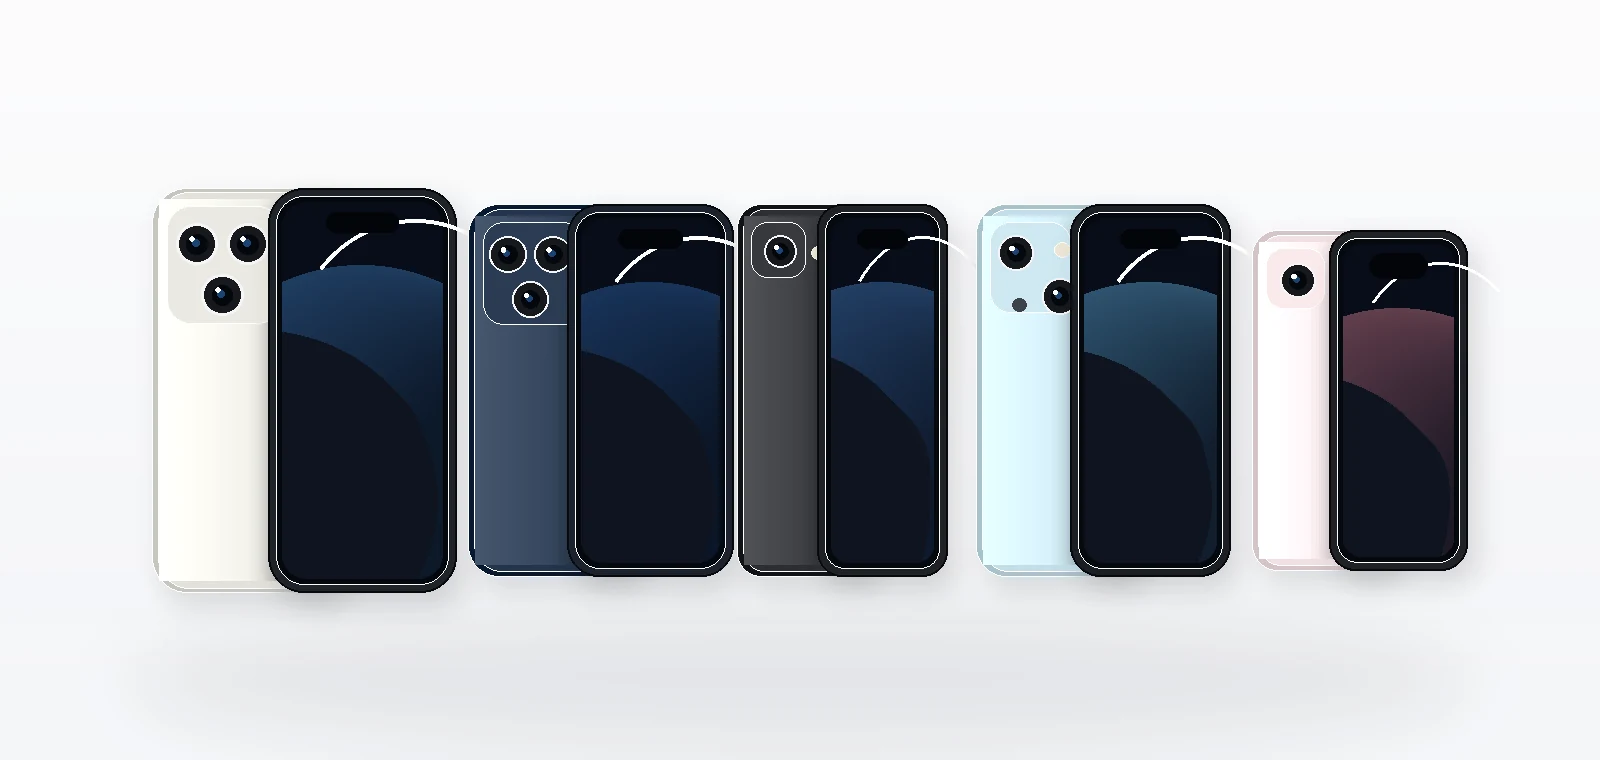
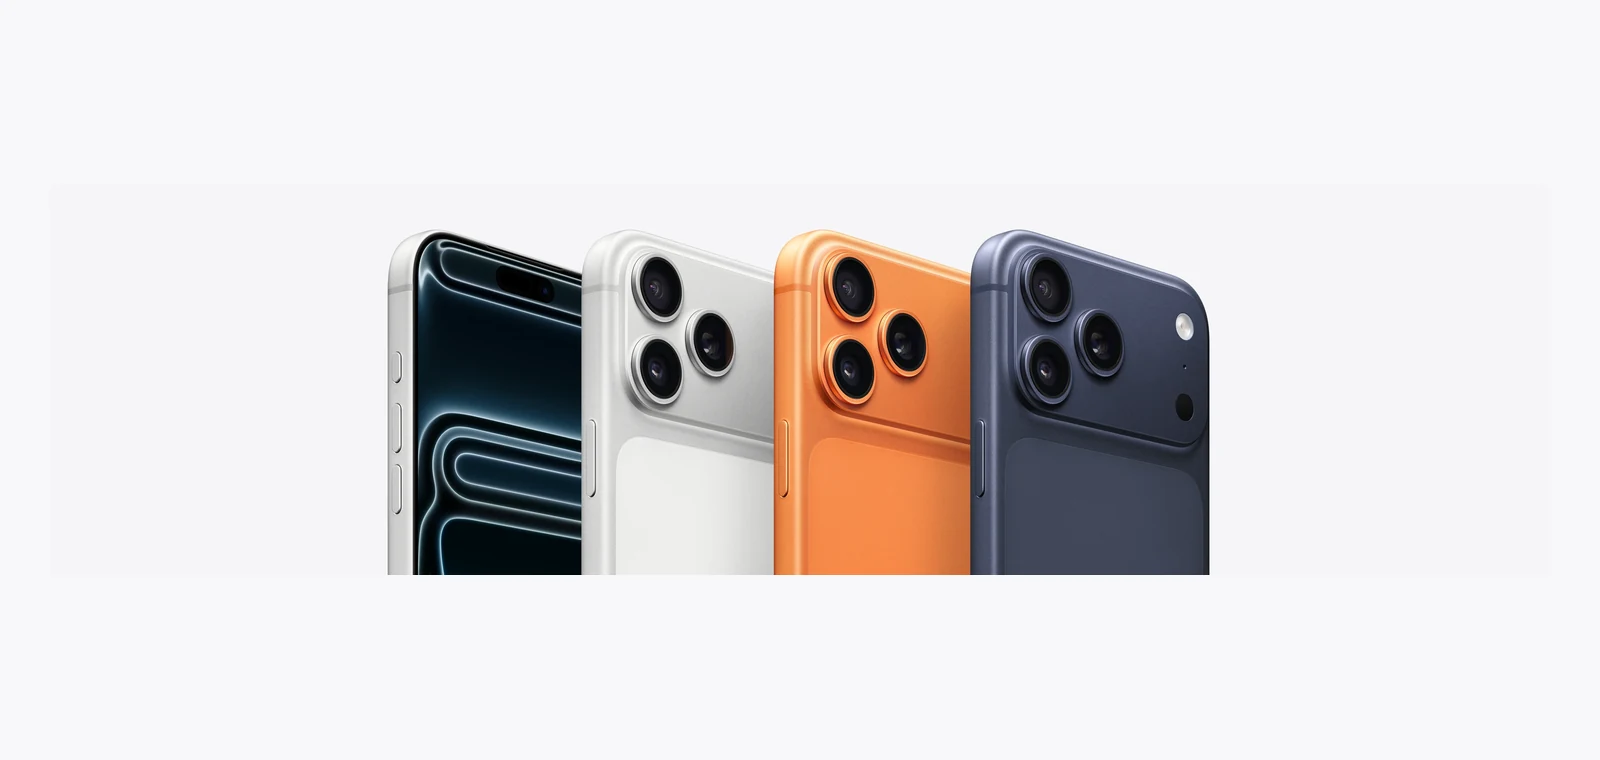
Add iPhone 17 lineup hero visual

diff --git a/design-system/device-visual-system/IPHONE_17_HERO_IMAGE_REPORT.md b/design-system/device-visual-system/IPHONE_17_HERO_IMAGE_REPORT.md
@@ -49,12 +49,14 @@
 
 - Arquivo WebP usado no site: `assets/images/iphones/hero/iphone-17-lineup-hero.webp`
 - Arquivo PNG de apoio: `assets/images/iphones/hero/iphone-17-lineup-hero.png`
-- Tipo: arte propria CELULARS, vetorial/raster gerada por codigo local com base em referencias oficiais.
+- Tipo: composicao raster local preparada para a CELULARS a partir de referencia visual oficial/fornecida da linha iPhone 17 Pro, com recorte superior dos aparelhos para manter cameras, tela e cores sem exibir logotipo Apple.
 - Uso: hero da Home em `index.html`.
 
 ## Decisao de uso
 
-As imagens oficiais da Apple foram usadas apenas como referencia visual para modelo, familia, camera e cores. A imagem publicada nao e hotlink, nao e copia direta de asset Apple e nao inclui logo Apple.
+As paginas oficiais da Apple foram usadas para confirmar modelos, familias, cameras e cores. O arquivo publicado e local, nao usa hotlink, nao exibe logotipo Apple e nao sugere parceria, autorizacao ou afiliacao com a Apple.
+
+O hero publicado usa a familia iPhone 17 Pro / iPhone 17 Pro Max como vitrine principal, nas cores Silver, Cosmic Orange e Deep Blue, por ser a referencia visual mais premium e clara entre os assets disponiveis.
 
 ## Confirmacoes
 
@@ -63,7 +65,7 @@ As imagens oficiais da Apple foram usadas apenas como referencia visual para mod
 - Nao ha texto sobre os aparelhos.
 - Nao ha sugestao de parceria, autorizacao ou afiliacao com a Apple.
 - Nao foram usados iPhones de linhas antigas como referencia de composicao.
-- A composicao e propria da CELULARS e nao copia o layout exato da Apple.
+- A composicao foi ajustada para uso editorial/comercial da CELULARS e nao copia o layout exato da Apple.
 - A imagem foi aplicada somente na Home.
 
 ## Observacoes